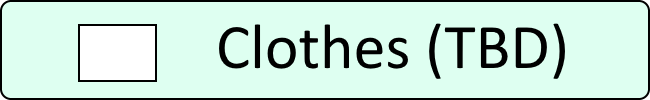
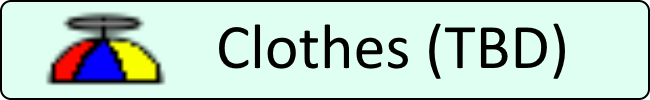
Made artwork for clothing store, started putting in the code...need to finish

Changed region(s): [[0.0615, 0.12, 0.2769, 0.87]]

diff --git a/Game.py b/Game.py
@@ -535,103 +535,6 @@ while True:
                 elif event.key == pygame.K_2:
                     if "basic2" in player.inventory["spells"]:
                         spellType = "basic2"
-                        
-                # ~ elif event.key == pygame.K_RIGHTBRACKET:
-                    # ~ if player.hatChoice < len(player.hat) - 1:
-                        # ~ player.hatChoice += 1
-                    # ~ else:
-                        # ~ player.hatChoice = 0
-                # ~ elif event.key == pygame.K_LEFTBRACKET:
-                    # ~ if player.hatChoice > 0:
-                        # ~ player.hatChoice -= 1
-                    # ~ else:
-                        # ~ player.hatChoice = len(player.hat) - 1
-                # ~ elif event.key == pygame.K_0:
-                    # ~ if player.shirtChoice < len(player.shirt) - 1:
-                        # ~ player.shirtChoice += 1
-                    # ~ else:
-                        # ~ player.shirtChoice = 0
-                # ~ elif event.key == pygame.K_9:
-                    # ~ if player.shirtChoice > 0:
-                        # ~ player.shirtChoice -= 1
-                    # ~ else:
-                        # ~ player.shirtChoice = len(player.shirt) - 1
-                # ~ elif event.key == pygame.K_8:
-                    # ~ if player.glassesChoice < len(player.glass) - 1:
-                        # ~ player.glassesChoice += 1
-                    # ~ else:
-                        # ~ player.glassesChoice = 0
-                # ~ elif event.key == pygame.K_7:
-                    # ~ if player.glassesChoice > 0:
-                        # ~ player.glassesChoice -= 1
-                    # ~ else:
-                        # ~ player.glassesChoice = len(player.glass) - 1
-                # ~ elif event.key == pygame.K_6:
-                    # ~ if player.mouthChoice < len(player.mouth) - 1:
-                        # ~ player.mouthChoice += 1
-                    # ~ else:
-                        # ~ player.mouthChoice = 0
-                # ~ elif event.key == pygame.K_5:
-                    # ~ if player.mouthChoice > 0:
-                        # ~ player.mouthChoice -= 1
-                    # ~ else:
-                        # ~ player.mouthChoice = len(player.mouth) - 1
-                # ~ elif event.key == pygame.K_4:
-                    # ~ if player.eyeChoice < len(player.eye) - 1:
-                        # ~ player.eyeChoice += 1
-                    # ~ else:
-                        # ~ player.eyeChoice = 0
-                # ~ elif event.key == pygame.K_3:
-                    # ~ if player.eyeChoice > 0:
-                        # ~ player.eyeChoice -= 1
-                    # ~ else:
-                        # ~ player.eyeChoice = len(player.eye) - 1
-                # ~ elif event.key == pygame.K_MINUS:
-                    # ~ if player.colorChoice < len(player.colors) - 1:
-                        # ~ player.colorChoice += 1
-                    # ~ else:
-                        # ~ player.colorChoice = 0
-                # ~ elif event.key == pygame.K_EQUALS:
-                    # ~ if player.colorChoice > 0:
-                        # ~ player.colorChoice -= 1
-                    # ~ else:
-                        # ~ player.colorChoice = len(player.colors) - 1
-                        # ~ player.glassesChoice = 0
-                # ~ elif event.key == pygame.K_7:
-                    # ~ if player.glassesChoice > 0:
-                        # ~ player.glassesChoice -= 1
-                    # ~ else:
-                        # ~ player.glassesChoice = len(player.glass) - 1
-                # ~ elif event.key == pygame.K_6:
-                    # ~ if player.mouthChoice < len(player.mouth) - 1:
-                        # ~ player.mouthChoice += 1
-                    # ~ else:
-                        # ~ player.mouthChoice = 0
-                # ~ elif event.key == pygame.K_5:
-                    # ~ if player.mouthChoice > 0:
-                        # ~ player.mouthChoice -= 1
-                    # ~ else:
-                        # ~ player.mouthChoice = len(player.mouth) - 1
-                # ~ elif event.key == pygame.K_4:
-                    # ~ if player.eyeChoice < len(player.eye) - 1:
-                        # ~ player.eyeChoice += 1
-                    # ~ else:
-                        # ~ player.eyeChoice = 0
-                # ~ elif event.key == pygame.K_3:
-                    # ~ if player.eyeChoice > 0:
-                        # ~ player.eyeChoice -= 1
-                    # ~ else:
-                        # ~ player.eyeChoice = len(player.eye) - 1
-                # ~ elif event.key == pygame.K_MINUS:
-                    # ~ if player.colorChoice < len(player.colors) - 1:
-                        # ~ player.colorChoice += 1
-                    # ~ else:
-                        # ~ player.colorChoice = 0
-                # ~ elif event.key == pygame.K_EQUALS:
-                    # ~ if player.colorChoice > 0:
-                        # ~ player.colorChoice -= 1
-                    # ~ else:
-                        # ~ player.colorChoice = len(player.colors) - 1
                 
             elif event.type == pygame.KEYUP:
                 if event.key == pygame.key.key_code(controls["left"]) or event.key == pygame.K_LEFT:
@@ -1159,6 +1062,21 @@ while True:
                     for option in options:
                         if option.click(event.pos):
                             player.purchase(option.kind, "clothing")
+            if event.type == pygame.KEYDOWN:
+                if event.key == pygame.K_1:
+                    used = False
+                    for i in player.inventory["eyes"]:
+                        if i == 1:
+                            used = True
+                    if used == False:
+                        player.inventory["eyes"] += [1]
+                if event.key == pygame.K_2:
+                    used = False
+                    for i in player.inventory["eyes"]:
+                        if i == 2:
+                            used = True
+                    if used == False:
+                        player.inventory["eyes"] += [2]
         
         money.update(player.inventory["coins"])
   
@@ -1343,12 +1261,12 @@ while True:
                    "hat": SettingsButton([addX, yOffset + 4*yFactor/amount - yOffset2], "forward"),
                    "shirt": SettingsButton([addX, yOffset + 5*yFactor/amount - yOffset2], "forward"),
                    "glasses": SettingsButton([addX, yOffset + 6*yFactor/amount - yOffset2], "forward")}
-            choices = {"eye": [player.eyeChoice, player.eye],
-                       "mouth": [player.mouthChoice, player.mouth],
-                       "color": [player.colorChoice, player.colors],
-                       "hat": [player.hatChoice, player.hat],
-                       "shirt": [player.shirtChoice, player.shirt],
-                       "glasses": [player.glassesChoice, player.glass]}
+            choices = {"eye": [player.eyeChoice, player.inventory["eyes"]],
+                       "mouth": [player.mouthChoice, player.inventory["mouths"]],
+                       "color": [player.colorChoice, player.inventory["colors"]],
+                       "hat": [player.hatChoice, player.inventory["hats"]],
+                       "shirt": [player.shirtChoice, player.inventory["shirts"]],
+                       "glasses": [player.glassesChoice, player.inventory["glasses"]]}
             
             viewChanged = False
                        
@@ -1366,21 +1284,16 @@ while True:
                         viewChanged = True
                     for m in minus.keys():
                         if minus[m].click(event.pos):
-                            
                             if choices[m][0] > 0:
                                 choices[m][0] -= 1
                             else:
                                 choices[m][0] = len(choices[m][1]) - 1
-                            print(choices[m][0])
                     for a in add.keys():
                         if add[a].click(event.pos):
-                            for c in choices.keys():
-                                if a == c:
-                                    print(choices[c][1][choices[c][0]])
-                                    if choices[c][0] < len(choices[c][1]) - 1:
-                                        choices[c][0] += 1
-                                    else:
-                                        choices[c][0] = 0
+                            if choices[a][0] < len(choices[a][1]) - 1:
+                                choices[a][0] += 1
+                            else:
+                                choices[a][0] = 0
                                         
         player.eyeChoice = choices["eye"][0]
         player.mouthChoice = choices["mouth"][0]

diff --git a/StoreOptions.py b/StoreOptions.py
@@ -5,6 +5,7 @@ class StoreChoice():
     def __init__(self, pos, kind, option):
         self.kind = option
         scale = [150, 150]
+        scale2 = [650, 100]
         self.petImages = {"blackCat": pygame.transform.scale(pygame.image.load("Images/Black Cat Choice.png"), scale),
                           "calicoCat": pygame.transform.scale(pygame.image.load("Images/Calico Cat Choice.png"), scale),
                           "owl": pygame.transform.scale(pygame.image.load("Images/Owl Choice.png"), scale),
@@ -14,7 +15,12 @@ class StoreChoice():
                              "fullHeal": pygame.transform.scale(pygame.image.load("Images/Full Heal Choice.png"), scale),
                              "halfHeal": pygame.transform.scale(pygame.image.load("Images/Half Heal Choice.png"), scale),
                              "revive": pygame.transform.scale(pygame.image.load("Images/Revive Choice.png"), scale)}
-        self.clothesImages = {"simple": pygame.transform.scale(pygame.image.load("Images/Item Choice Template.png"), scale)}
+        self.clothesImages = {"eyes": pygame.transform.scale(pygame.image.load("Images/Eyes Option.png"), scale),
+                              "mouths": pygame.transform.scale(pygame.image.load("Images/Mouths Option.png"), scale2),
+                              "colors": pygame.transform.scale(pygame.image.load("Images/Colors Option.png"), scale2),
+                              "hats": pygame.transform.scale(pygame.image.load("Images/Hats Option.png"), scale2),
+                              "shirts": pygame.transform.scale(pygame.image.load("Images/Shirts Option.png"), scale2),
+                              "glasses": pygame.transform.scale(pygame.image.load("Images/Glasses Option.png"), scale2)}
         self.spellImages = {"simple": pygame.transform.scale(pygame.image.load("Images/Item Choice Template.png"), scale)}
         
         if kind == "petsSt":

diff --git a/SettingsButtons.py b/SettingsButtons.py
@@ -29,7 +29,8 @@ class SettingsButton():
                        "potionsIn": pygame.image.load("Images/Potions Choice.png"),
                        "clothesIn": pygame.image.load("Images/Clothes Choice.png"),
                        "passSee": pygame.image.load("Images/Pass See.png"),
-                       "passHide": pygame.image.load("Images/Pass Hide.png")}
+                       "passHide": pygame.image.load("Images/Pass Hide.png"),
+                       "buy": pygame.image.load("Images/Buy Button.png")}
         
         self.image = self.images[kind]
         

diff --git a/Player.py b/Player.py
@@ -78,7 +78,13 @@ class Player():
                           "healthPotion": 0,
                           "coins": 0,
                           "pets": [],
-                          "spells": ["basic"]}
+                          "spells": ["basic"],
+                          "colors": [0],
+                          "eyes": [0],
+                          "mouths": [0],
+                          "shirts": [0],
+                          "hats": [0],
+                          "glasses": [0]}
         
         self.counter = 0
         self.stop = 30
